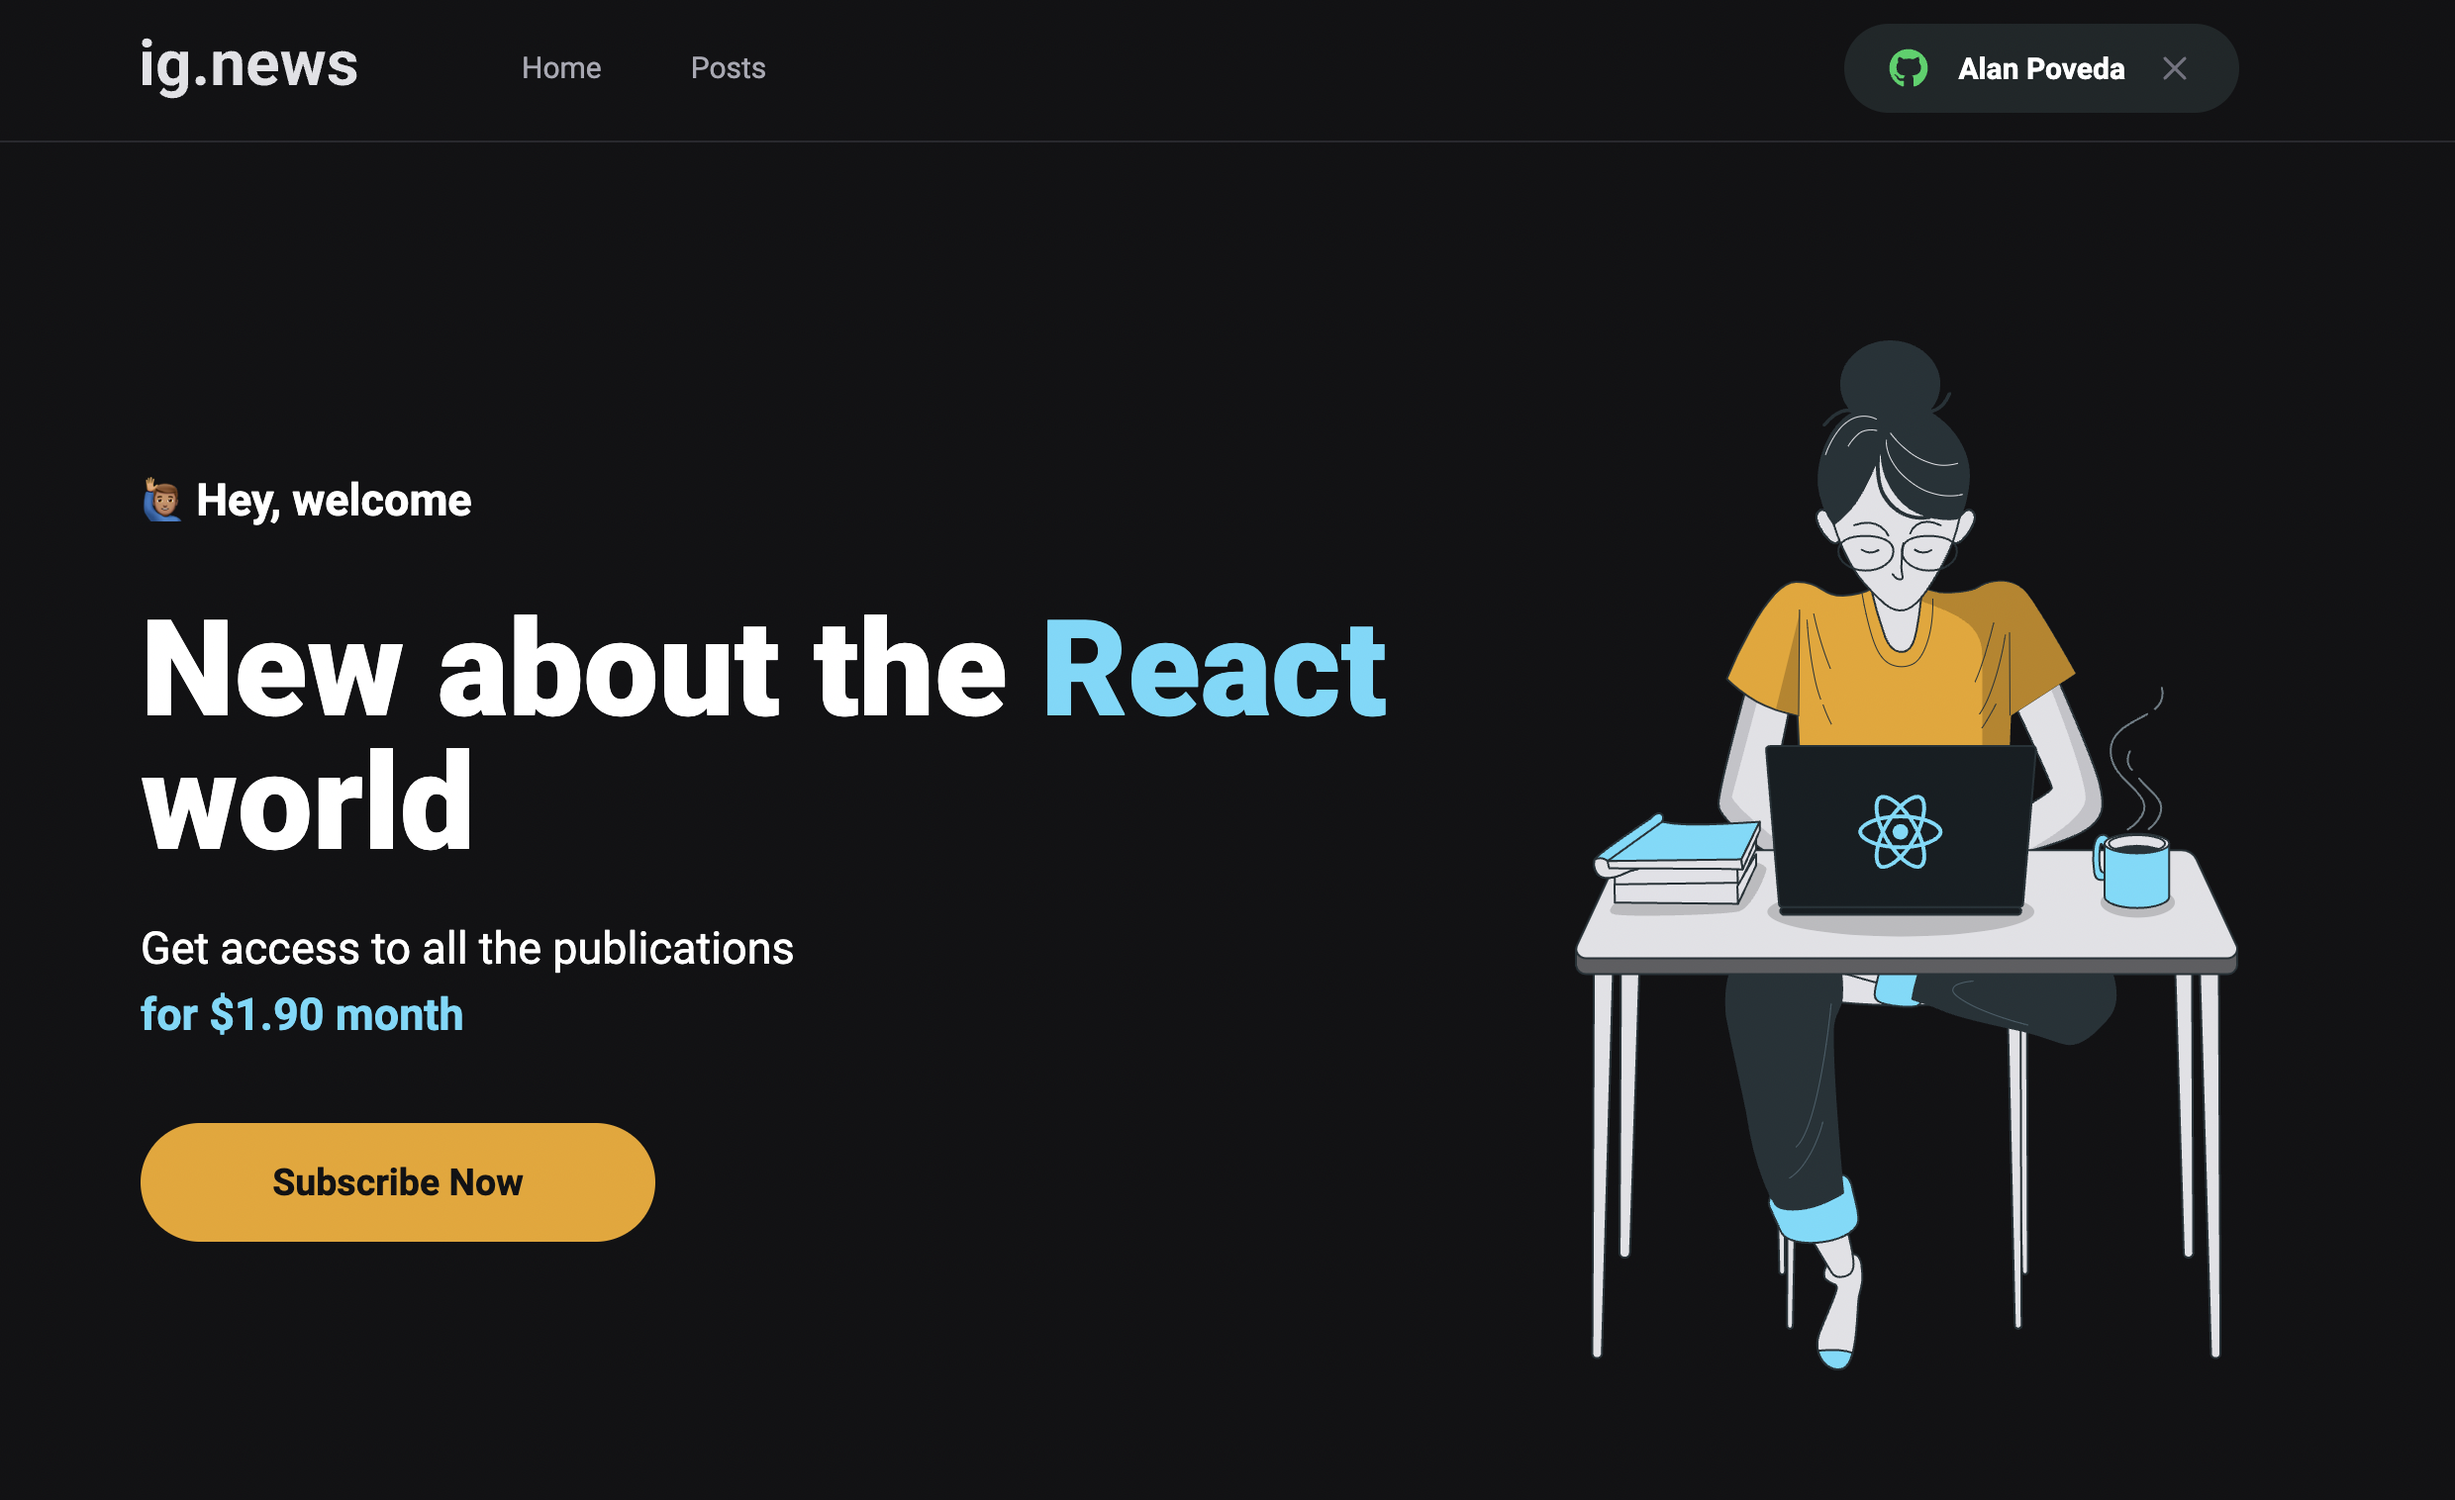
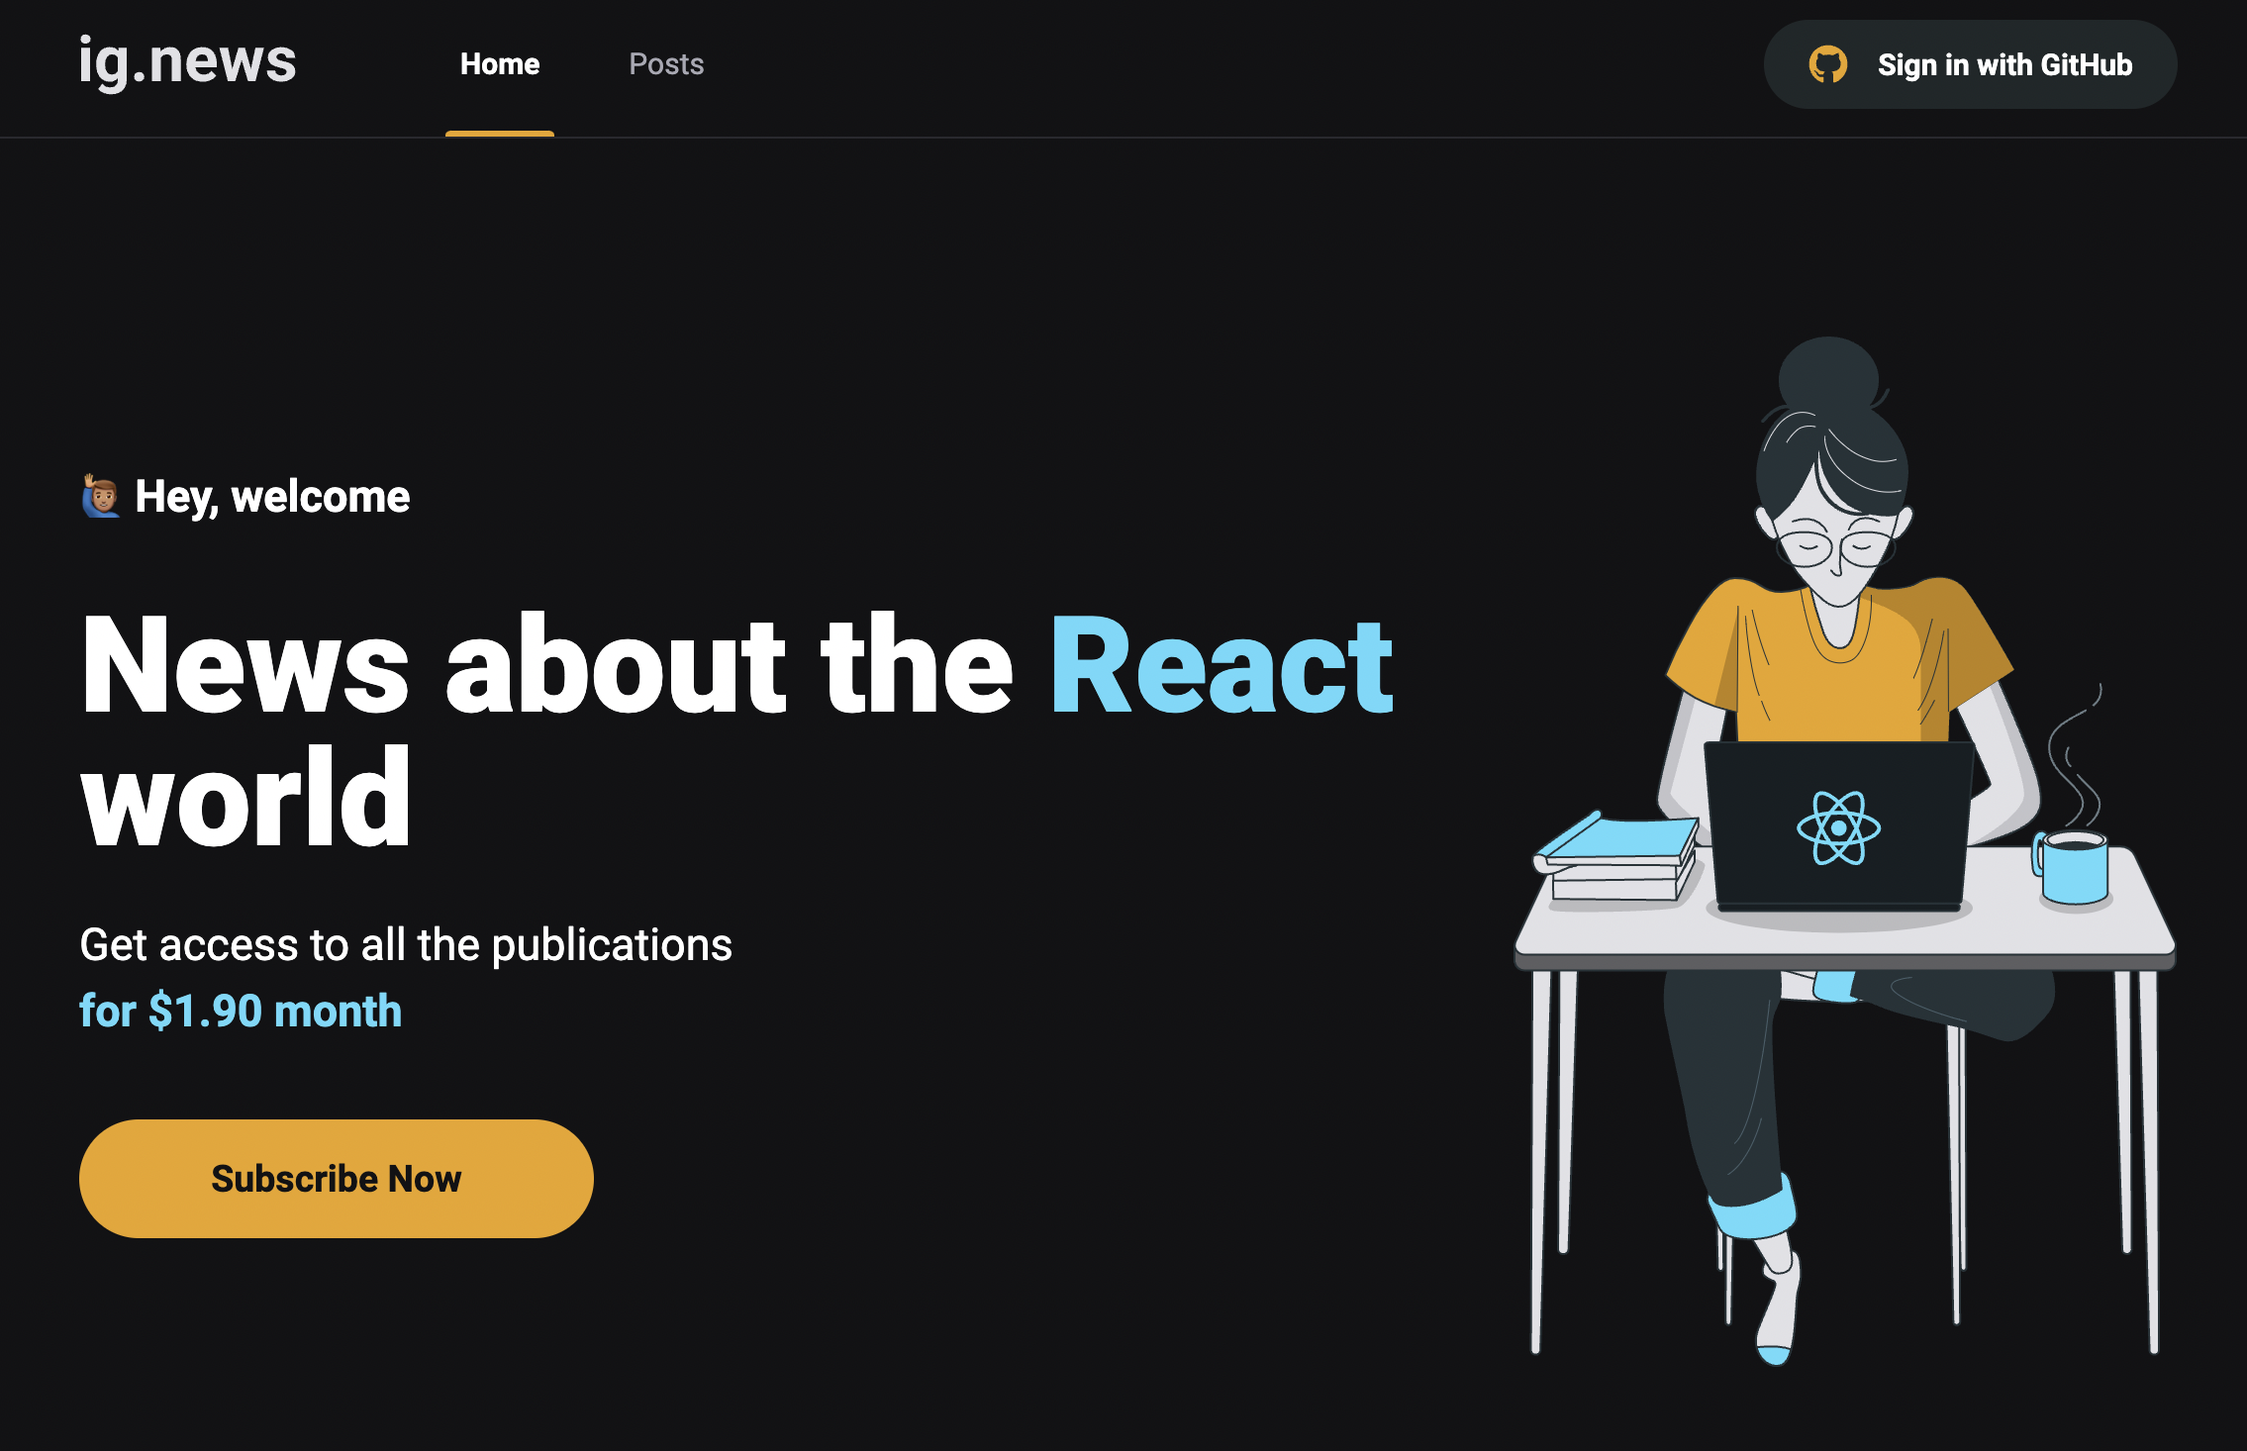
Image change and title page index

diff --git a/src/pages/index.tsx b/src/pages/index.tsx
@@ -24,7 +24,7 @@ export default function Home({ product }: HomeProps) {
     <main className={styles.contentContainer}>
       <section className={styles.hero}>
         <span>🙋🏽♂ Hey, welcome</span>
-        <h1>New about the <span>React</span> world</h1>
+        <h1>News about the <span>React</span> world</h1>
         <p>
           Get access to all the publications <br/>
           <span> for {product.amount} month </span>
